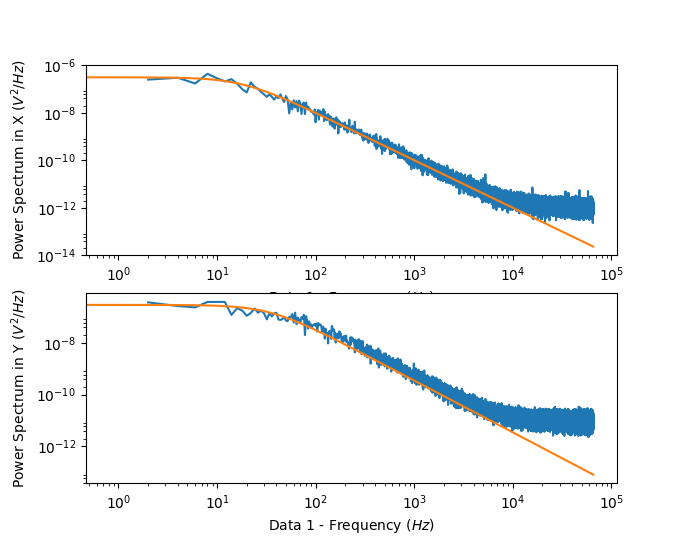
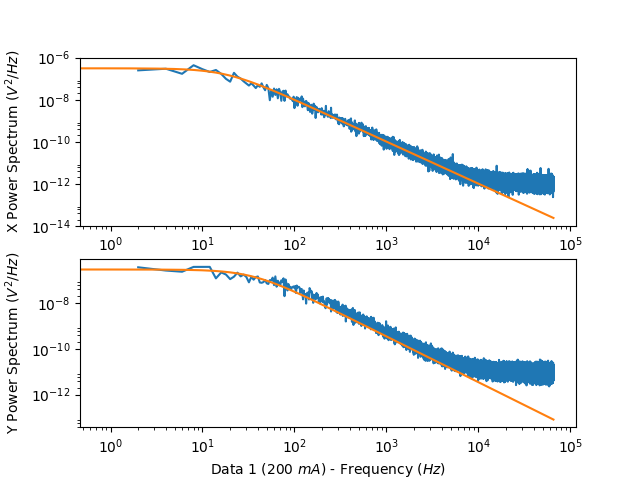
Some changes I guess

diff --git a/optical/src/analysis.py b/optical/src/analysis.py
@@ -220,10 +220,11 @@ def plot_current_dependence(alphas, salphas, currents, conv=1e6, filterhigh=True
     plt.legend()
 
 def plot_power_spectrum(freqdat):
-    dname = freqdat.dataname
-    data  = freqdat.data
-    pX    = freqdat.paramsX
-    pY    = freqdat.paramsY
+    dname   = freqdat.dataname
+    data    = freqdat.data
+    pX      = freqdat.paramsX
+    pY      = freqdat.paramsY
+    current = freqdat.current
 
     fig, ax = plt.subplots(2)
     ax[0].plot(data[1:, 0], data[1:, 1])
@@ -236,16 +237,16 @@ def plot_power_spectrum(freqdat):
 
     ax[0].set_xscale("log")
     ax[0].set_yscale("log")
-    ax[0].set_xlabel("{0} - Frequency ($Hz$)".format(dname))
-    ax[0].set_ylabel("Power Spectrum in X ($V^2 / Hz$)")
+    ax[0].set_xlabel("{0} ({1:1.0f} $mA$) - Frequency ($Hz$)".format(dname, current))
+    ax[0].set_ylabel("X Power Spectrum ($V^2 / Hz$)")
 
     ax[1].plot(data[1:, 0], data[1:, 2])
     ax[1].plot(freq, func(freq, pY))
 
     ax[1].set_xscale("log")
     ax[1].set_yscale("log")
-    ax[1].set_xlabel("{0} - Frequency ($Hz$)".format(dname))
-    ax[1].set_ylabel("Power Spectrum in Y ($V^2 / Hz$)")
+    ax[1].set_xlabel("{0} ({1:1.0f} $mA$) - Frequency ($Hz$)".format(dname, current))
+    ax[1].set_ylabel("Y Power Spectrum ($V^2 / Hz$)")
 
 def process_frequency_data(filename, opts={}):
     outstring = ""
